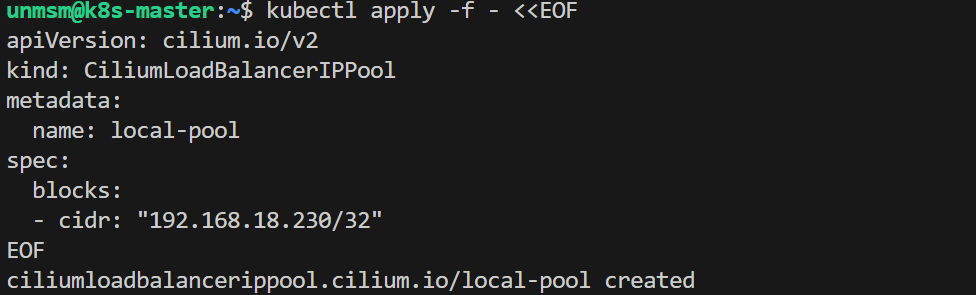
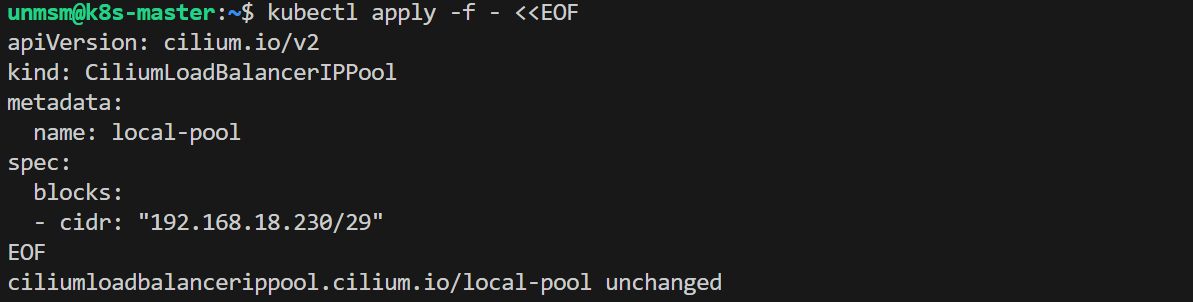
docs(ch03-09, ch04-03): update Gateway API with dual gateway and add Hubble README

diff --git a/docs/chapter-04-observability/03-hubble/README.md b/docs/chapter-04-observability/03-hubble/README.md
@@ -1,0 +1,105 @@
+# 03 — Hubble
+
+This section moves Hubble UI and Hubble Relay to k8s-worker-3 and creates the HTTPRoute on the hubble-gateway. Hubble is Cilium's built-in network observability component providing real-time flow visibility at L3/L4 and L7 across all cluster workloads.
+> ⚠️ **Run this section on k8s-master only.**
+
+---
+
+## Prerequisites
+
+- [ ] Completed [02 — Loki and Grafana Alloy](../02-loki-alloy/README.md)
+- [ ] SSH access to k8s-master
+
+---
+
+## Step 1 — Connect to k8s-master
+
+```bash
+ssh unmsm@192.168.18.210
+```
+
+---
+
+## Step 2 — Move Hubble UI and Relay to k8s-worker-3
+
+```bash
+helm upgrade cilium cilium/cilium \
+  --version 1.19.3 \
+  --namespace kube-system \
+  --reuse-values \
+  --set hubble.ui.nodeSelector."role"=observability \
+  --set hubble.relay.nodeSelector."role"=observability
+```
+
+<img src="img/cilium-upgrade.png" alt="helm upgrade cilium output" width="800">
+<sub>Figure 1. Cilium upgraded with Hubble UI and Relay pinned to k8s-worker-3.</sub>
+<br><br>
+
+---
+
+## Step 3 — Verify
+
+```bash
+kubectl get pods -n kube-system -o wide | grep hubble
+```
+
+<img src="img/hubble-pods.png" alt="hubble-ui and hubble-relay running on k8s-worker-3" width="800">
+<sub>Figure 2. Hubble UI and Hubble Relay Running on k8s-worker-3.</sub>
+<br><br>
+
+---
+
+## Step 4 — Create Hubble HTTPRoute
+
+```bash
+kubectl apply -f - <<EOF
+apiVersion: gateway.networking.k8s.io/v1
+kind: HTTPRoute
+metadata:
+  name: hubble
+  namespace: kube-system
+spec:
+  parentRefs:
+  - name: hubble-gateway
+    namespace: kube-system
+  rules:
+  - matches:
+    - path:
+        type: PathPrefix
+        value: /
+    backendRefs:
+    - name: hubble-ui
+      port: 80
+EOF
+```
+
+<img src="img/hubble-httproute.png" alt="hubble httproute created" width="800">
+<sub>Figure 3. Hubble HTTPRoute created. Traffic to 192.168.18.231 is forwarded to the hubble-ui Service.</sub>
+<br><br>
+
+---
+
+## Step 5 — Verify
+
+Access Hubble UI from your browser:
+
+```
+http://192.168.18.231
+```
+
+<img src="img/hubble-ui.png" alt="Hubble UI showing network flows" width="800">
+<sub>Figure 4. Hubble UI accessible at http://192.168.18.231 .</sub>
+<br><br>
+
+---
+
+## References
+
+- \[1\] Cilium Documentation, "Hubble Setup."
+      https://docs.cilium.io/en/v1.19/observability/hubble/setup/ [Accessed: May 2026]
+
+---
+
+✅ You are here: `chapter-04-observability / 03-hubble`
+
+⏭️ Next: [04 — Longhorn UI →](../04-longhorn-ui/README.md)

diff --git a/docs/chapter-03-kubernetes-setup/09-gateway-api/README.md b/docs/chapter-03-kubernetes-setup/09-gateway-api/README.md
@@ -16,23 +16,27 @@ This section enables the Kubernetes Gateway API on the cluster using Cilium's bu
 
 ## Access Layout
 
+Two Gateways are deployed. One handles path-based routing for all observability UIs. The other is dedicated to Hubble UI, which requires serving from the root path due to a React router limitation ([cilium/hubble#1704](https://github.com/cilium/hubble/issues/1704)).
+
 | UI | Path | Chapter |
 |---|---|---|
-| Grafana | /grafana | 4 |
-| Prometheus | /prometheus | 4 |
-| Hubble UI | /hubble | 4 |
-| Longhorn | /longhorn | 3 |
-| free5GC WebUI | /free5gc | 5 |
+| Grafana | http://192.168.18.230/grafana | 4 |
+| Prometheus | http://192.168.18.230/prometheus | 4 |
+| Longhorn | http://192.168.18.230/longhorn | 4 |
+| free5GC WebUI | http://192.168.18.230/free5gc | 5 |
+| Hubble UI | http://192.168.18.231/ | 4 |
 
 ---
 
-## Gateway IP Address
+## IP Pool
 
-| Parameter | Value |
+A /29 CIDR reserves 8 IPs (.230 to .237) from the local network for Gateway services.
+
+| Gateway | IP |
 |---|---|
-| Gateway IP | 192.168.18.230 |
-| Access URL | http://192.168.18.230/\<path\> |
-| DHCP pool end | 192.168.18.220 |
+| observability-gateway | 192.168.18.230 |
+| hubble-gateway | 192.168.18.231 |
+| available | 192.168.18.232 to .237 |
 
 ---
 
@@ -107,6 +111,8 @@ kubectl get gatewayclass
 
 ## Step 5 — Create IP Pool
 
+The pool reserves 8 IPs from the local network for Gateway services.
+
 ```bash
 kubectl apply -f - <<EOF
 apiVersion: cilium.io/v2
@@ -115,12 +121,12 @@ metadata:
   name: local-pool
 spec:
   blocks:
-  - cidr: "192.168.18.230/32"
+  - cidr: "192.168.18.230/29"
 EOF
 ```
 
 <img src="img/ippool-created.png" alt="CiliumLoadBalancerIPPool created output" width="500">
-<sub>Figure 5. IP pool created. 192.168.18.230 is reserved for the Gateway and outside the router DHCP pool.</sub>
+<sub>Figure 5. IP pool created with 8 reserved IPs from 192.168.18.230 to 192.168.18.237.</sub>
 <br><br>
 
 ---
@@ -190,32 +196,62 @@ EOF
 
 ---
 
-## Step 8 — Verify
+## Step 8 — Create the Hubble Gateway
+
+Hubble UI requires serving from the root path. A dedicated Gateway is created in the kube-system namespace so it receives its own IP and HTTPRoutes can target it from `/`.
 
 ```bash
-kubectl get gateway -n monitoring
-kubectl get svc -n monitoring
+kubectl apply -f - <<EOF
+apiVersion: gateway.networking.k8s.io/v1
+kind: Gateway
+metadata:
+  name: hubble-gateway
+  namespace: kube-system
+spec:
+  gatewayClassName: cilium
+  listeners:
+  - name: http
+    protocol: HTTP
+    port: 80
+    allowedRoutes:
+      namespaces:
+        from: All
+EOF
 ```
 
-<img src="img/gateway-verify.png" alt="gateway showing PROGRAMMED True and IP 192.168.18.230" width="800">
-<sub>Figure 8. Gateway PROGRAMMED: True with address 192.168.18.230.</sub>
+<img src="img/hubble-gateway-created.png" alt="hubble-gateway created output" width="500">
+<sub>Figure 8. hubble-gateway created in the kube-system namespace with address 192.168.18.231.</sub>
+<br><br>
+
+---
+
+## Step 9 — Verify
+
+```bash
+kubectl get gateway -A
+kubectl get svc -A | grep cilium-gateway
+```
+
+<img src="img/gateway-verify.png" alt="kubectl get gateway showing both gateways PROGRAMMED True" width="800">
+<sub>Figure 9. Both Gateways PROGRAMMED: True. observability-gateway at 192.168.18.230 and hubble-gateway at 192.168.18.231.</sub>
 <br><br>
 
 ```bash
 curl -I http://192.168.18.230
+curl -I http://192.168.18.231
 ```
 
-<img src="img/curl-verify.png" alt="curl -I http://192.168.18.230 returning 404 with server envoy" width="500">
-<sub>Figure 9. curl returns HTTP 404 from Envoy. The Gateway is operational. HTTPRoutes for each UI are configured in their respective chapters.</sub>
+<img src="img/curl-verify.png" alt="curl output for both gateways" width="500">
+<sub>Figure 10. observability-gateway returns 404 at root path (routes are subpath only). hubble-gateway returns 200 serving Hubble UI.</sub>
 <br><br>
 
 | Check | Expected |
 |---|---|
-| Gateway PROGRAMMED | True |
-| Gateway ADDRESS | 192.168.18.230 |
-| Service EXTERNAL-IP | 192.168.18.230 |
-| curl response | 404 from Envoy (no routes yet) |
-| ping | No response. Cilium handles TCP/UDP only. ICMP is not forwarded by design |
+| observability-gateway ADDRESS | 192.168.18.230 |
+| hubble-gateway ADDRESS | 192.168.18.231 |
+| curl 192.168.18.230 | 404 — root path has no route |
+| curl 192.168.18.231 | 200 — Hubble UI |
+| ping | No response. Cilium LB handles TCP/UDP only |
 
 > **Note:** HTTPRoutes for each UI are created in their respective chapters once each service is deployed.
 
@@ -231,6 +267,9 @@ curl -I http://192.168.18.230
       https://docs.cilium.io/en/v1.19/network/l2-announcements/ [Accessed: May 2026]
 - \[4\] Kubernetes SIG Network, "Gateway API."
       https://gateway-api.sigs.k8s.io/ [Accessed: May 2026]
+- \[5\] cilium/hubble, "Hubble baseUrl with Gateway and HTTPRoute."
+      https://github.com/cilium/hubble/issues/1704 [Accessed: May 2026]
+
 
 ---
 